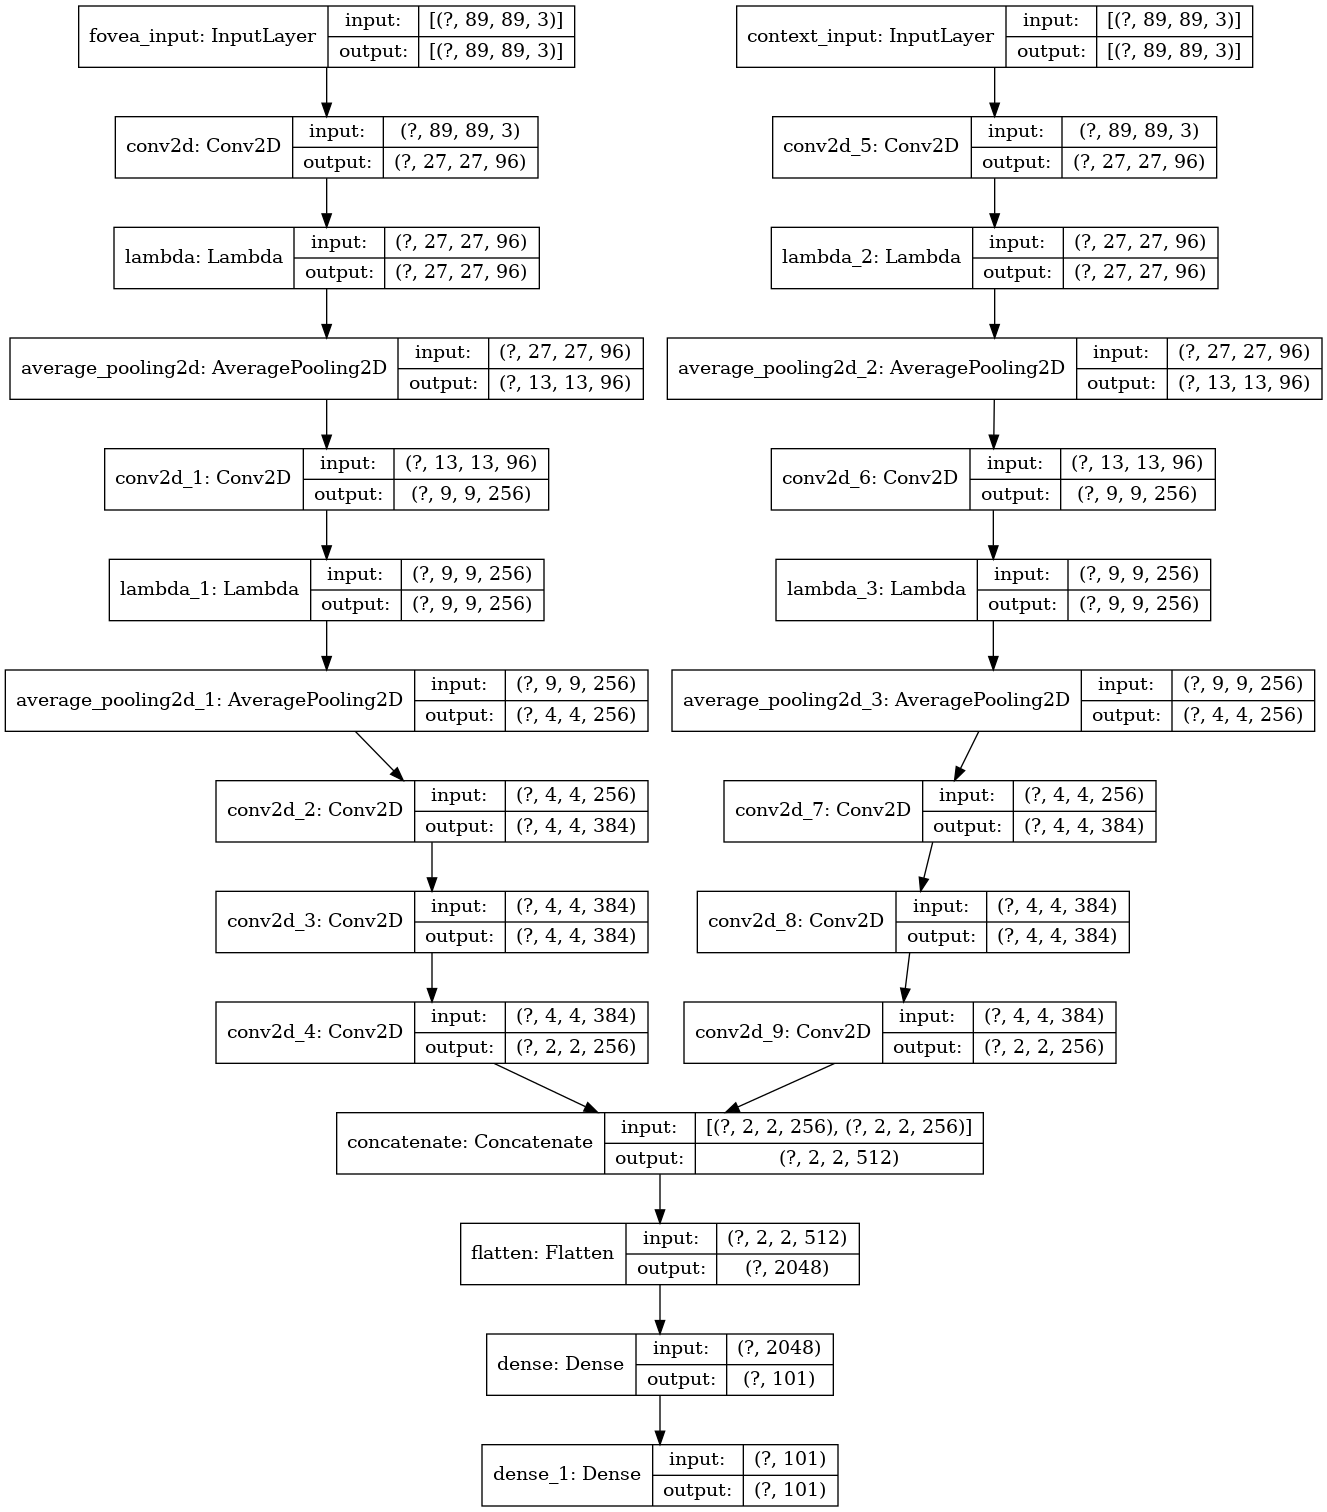
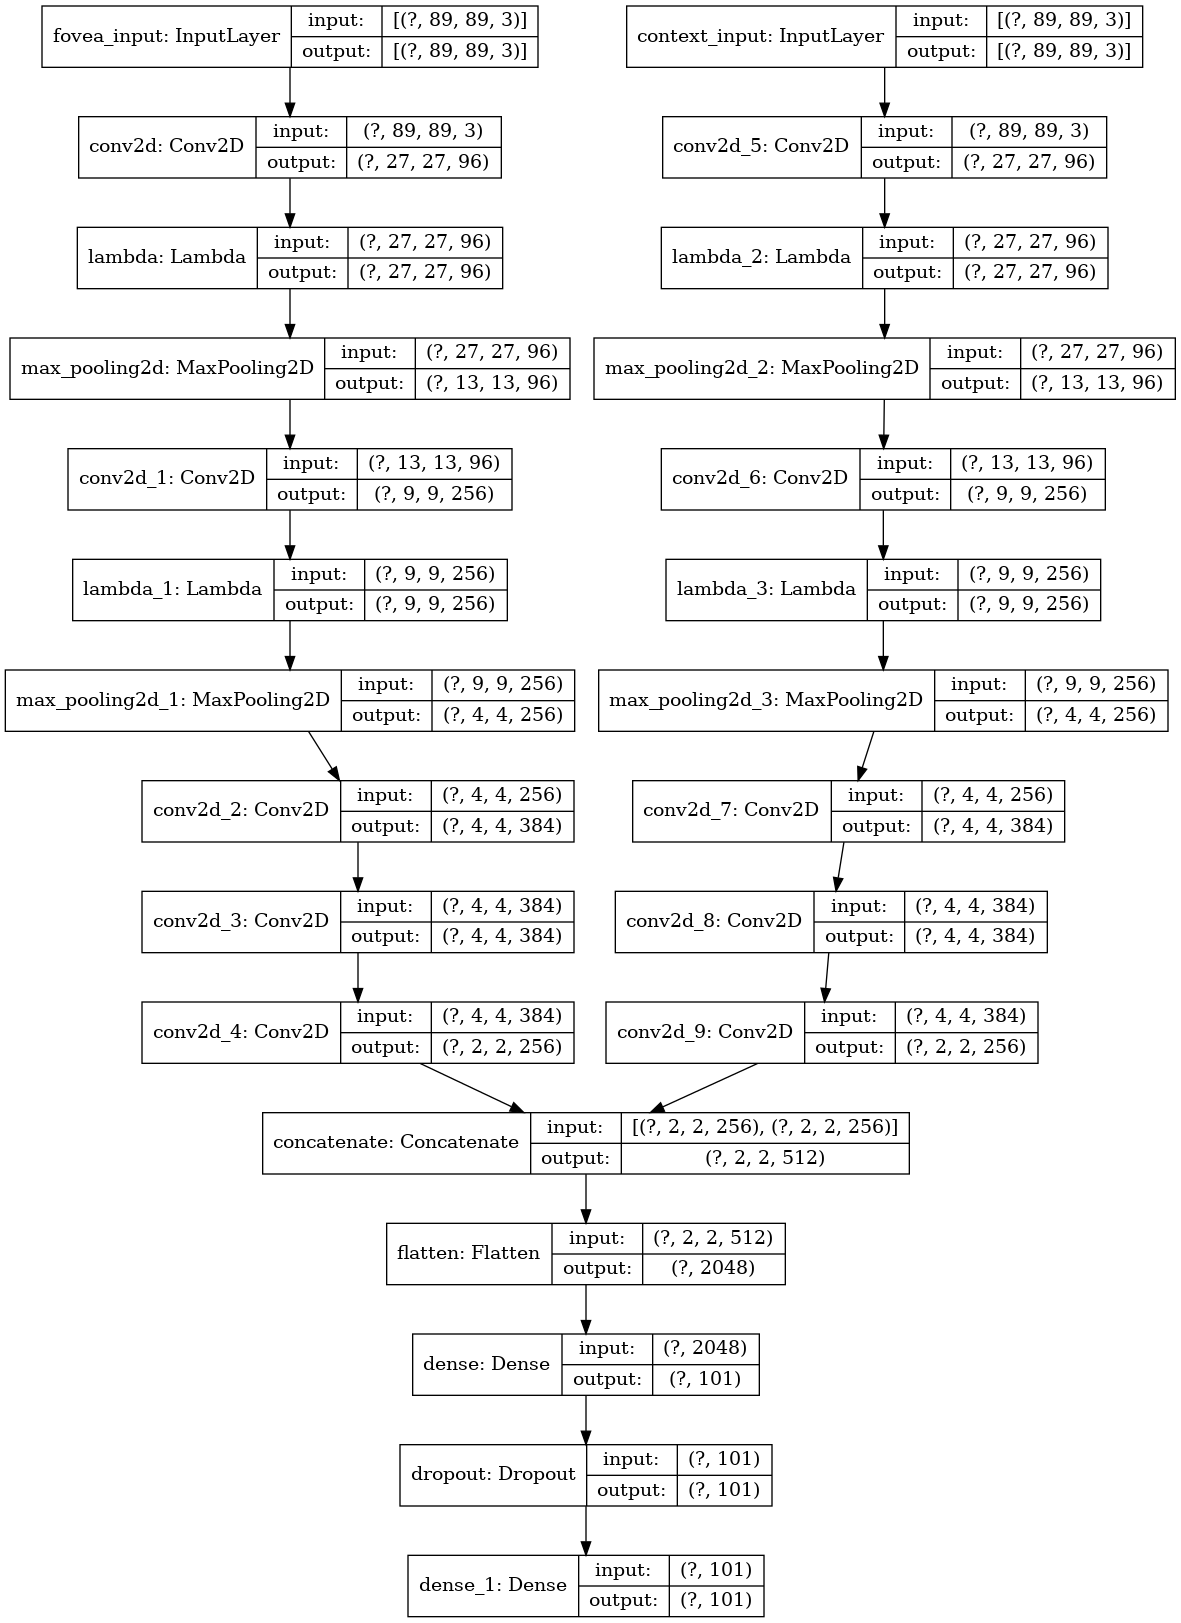
Improved SF MultiRes model, added evaluation script

Changed region(s): [[0.0, 0.0, 1.0, 1.0]]

diff --git a/train_custom_cnn.py b/train_custom_cnn.py
@@ -11,7 +11,7 @@ from keras.applications.inception_v3 import InceptionV3
 from keras.optimizers import SGD
 from keras.preprocessing.image import ImageDataGenerator
 from keras.models import Model
-from keras.layers import Flatten, concatenate, Lambda, Input, Dense, AveragePooling2D, GlobalAveragePooling2D, Conv2D
+from keras.layers import Flatten, concatenate, Lambda, Input, Dropout, Dense, AveragePooling2D, MaxPooling2D, GlobalAveragePooling2D, Conv2D
 from keras.callbacks import ModelCheckpoint, TensorBoard, EarlyStopping, CSVLogger
 from keras.utils import plot_model
 from tensorflow.nn import local_response_normalization
@@ -23,7 +23,8 @@ data = DataSet()
 
 # Helper: Save the model.
 checkpointer = ModelCheckpoint(
-    filepath=os.path.join('data', 'checkpoints', 'inception.{epoch:03d}-{accuracy:.2f}.hdf5'),
+    filepath=os.path.join('data', 'checkpoints', 'SF_MultiRes.{epoch:03d}-{accuracy:.2f}.hdf5'),
+    monitor='accuracy',
     verbose=1,
     save_best_only=True)
 
@@ -35,7 +36,7 @@ tensorboard = TensorBoard(log_dir=os.path.join('data', 'logs'))
 
 # Helper: Save results.
 timestamp = time.time()
-csv_logger = CSVLogger(os.path.join('data', 'logs', 'InceptionV3' + '-' + 'training-' + \
+csv_logger = CSVLogger(os.path.join('data', 'logs', 'SF_MultiRes' + '-' + 'training-' + \
     str(timestamp) + '.log'))
 
 def crop_center(img):
@@ -44,21 +45,25 @@ def crop_center(img):
     y,x,z = img.shape
     startx = x//2-(cropx//2)
     starty = y//2-(cropy//2)    
-    return img[starty:starty+cropy,startx:startx+cropx]
+    return img[starty:starty+cropy,startx:startx+cropx]-117
+
+def subtract_mean(img):
+    return img-117
 
 def get_train_generator():
     train_fovea_datagen = ImageDataGenerator(
-        rescale=1./255,
-        shear_range=0.2,
+        #rescale=1./255,
+        #shear_range=0.2,
         horizontal_flip=True,
-        rotation_range=10.,
+        rotation_range=180.,
         preprocessing_function=crop_center)
 
     train_context_datagen = ImageDataGenerator(
-        rescale=1./255,
-        shear_range=0.2,
+        #rescale=1./255,
+        #shear_range=0.2,
         horizontal_flip=True,
-        rotation_range=10.)
+        rotation_range=180.,
+        preprocessing_function=subtract_mean)
 
     train_fovea_generator = train_fovea_datagen.flow_from_directory(
         os.path.join('data', 'train'),
@@ -84,9 +89,9 @@ def get_train_generator():
     # return train_generator, validation_generator
 
 def get_validation_generator():
-    context_datagen = ImageDataGenerator(rescale=1./255)
+    context_datagen = ImageDataGenerator()#rescale=1./255)
     
-    fovea_datagen = ImageDataGenerator(rescale=1./255,
+    fovea_datagen = ImageDataGenerator(#rescale=1./255,
     preprocessing_function=crop_center)
 
     context_generator = context_datagen.flow_from_directory(
@@ -126,36 +131,37 @@ def get_model(weights='imagenet'):
 
     fovea_input = Input(shape=(89,89,3), name='fovea_input')
     x = Conv2D(96,11,3)(fovea_input)
-    x = Lambda(local_response_normalization)(x)
-    x = AveragePooling2D((2,2),padding='valid')(x)
+    x = Lambda(local_response_normalization,arguments={'alpha':1e-4,'bias':2})(x)
+    x = MaxPooling2D((2,2),padding='valid')(x)
     x = Conv2D(256,5,1)(x)
-    x = Lambda(local_response_normalization)(x)
-    x = AveragePooling2D((2,2),padding='valid')(x)
+    x = Lambda(local_response_normalization,arguments={'alpha':1e-4,'bias':2})(x)
+    x = MaxPooling2D((2,2),padding='valid')(x)
     x = Conv2D(384,1,1)(x)
     x = Conv2D(384,1,1)(x)
-    x = Conv2D(256,3,1)(x)
+    x = Conv2D(256,3,1,activation='relu')(x)
 
     context_input = Input(shape=(89,89,3), name='context_input')
     c = Conv2D(96,11,3)(context_input)
-    c = Lambda(local_response_normalization)(c)
-    c = AveragePooling2D((2,2),padding='valid')(c)
+    c = Lambda(local_response_normalization,arguments={'alpha':1e-4,'bias':2})(c)
+    c = MaxPooling2D((2,2),padding='valid')(c)
     c = Conv2D(256,5,1)(c)
-    c = Lambda(local_response_normalization)(c)
-    c = AveragePooling2D((2,2),padding='valid')(c)
+    c = Lambda(local_response_normalization,arguments={'alpha':1e-4,'bias':2})(c)
+    c = MaxPooling2D((2,2),padding='valid')(c)
     c = Conv2D(384,1,1)(c)
     c = Conv2D(384,1,1)(c)
-    c = Conv2D(256,3,1)(c)
+    c = Conv2D(256,3,1,activation='relu')(c)
 
     cn = concatenate([x,c])
 
-    #cn = AveragePooling2D((2,2),padding='valid')(cn)
+    #cn = AveragePooling2D((2,2),padding='same')(cn)
     cn = Flatten()(cn)
-    fc = Dense(len(data.classes), activation='relu')(cn)
-    predictions = Dense(len(data.classes), activation='relu')(fc)
+    fc = Dense(len(data.classes))(cn)
+    fc = Dropout(0.5)(fc)
+    predictions = Dense(len(data.classes),activation='softmax')(fc)
 
     model = Model(inputs=[fovea_input, context_input], outputs=predictions)    
     #model([fovea_input, context_input])
-    model.compile(optimizer=SGD(lr=0.0001, momentum=0.9) ,loss='categorical_crossentropy', metrics=['accuracy','top_k_categorical_accuracy'], run_eagerly=True)
+    model.compile(optimizer=SGD(lr=0.0001, momentum=0.9) ,loss='categorical_crossentropy', metrics=['accuracy','top_k_categorical_accuracy'], run_eagerly=False)
     
     return model
 
@@ -193,7 +199,7 @@ def train_model(model, nb_epoch, train_generator, callbacks=[], validation_gener
     #train_generator, validation_generator = generators
     model.fit(
         train_generator,
-        steps_per_epoch=10,
+        steps_per_epoch=100,
         validation_data=validation_generator,
         validation_steps=10,
         epochs=nb_epoch,
@@ -207,7 +213,7 @@ def main(weights_file):
     
 
     train_generator = get_train_generator()
-    validation_generator = get_validation_generator()
+    validation_generator = None #get_validation_generator()
     #generators = (train_generator,validation_generator)
 
     # if weights_file is None:
@@ -221,7 +227,7 @@ def main(weights_file):
 
     # # Get and train the mid layers.
     # model = freeze_all_but_mid_and_top(model)
-    model = train_model(model, 20, train_generator,
+    model = train_model(model, 1250, train_generator,
                         [checkpointer, tensorboard, csv_logger],
                         validation_generator=validation_generator)
 

diff --git a/test_custom_cnn.py b/test_custom_cnn.py
@@ -1,0 +1,144 @@
+"""
+Test on images split into directories. This assumes we've split
+our videos into frames and moved them to their respective folders
+and trained our model.
+
+Based on:
+https://keras.io/preprocessing/image/
+and
+https://keras.io/applications/
+"""
+from train_custom_cnn import get_model
+from keras.applications.inception_v3 import InceptionV3
+from keras.optimizers import SGD
+from keras.preprocessing.image import ImageDataGenerator
+from keras.models import Model
+from keras.layers import Flatten, concatenate, Lambda, Input, Dropout, Dense, AveragePooling2D, MaxPooling2D, GlobalAveragePooling2D, Conv2D
+from keras.callbacks import ModelCheckpoint, TensorBoard, EarlyStopping, CSVLogger
+from keras.utils import plot_model
+from tensorflow.nn import local_response_normalization
+from data import DataSet
+import time
+import os.path
+
+data = DataSet()
+
+# Helper: Save the model.
+checkpointer = ModelCheckpoint(
+    filepath=os.path.join('data', 'checkpoints', 'inception.{epoch:03d}-{accuracy:.2f}.hdf5'),
+    verbose=1,
+    save_best_only=True)
+
+# Helper: Stop when we stop learning.
+early_stopper = EarlyStopping(patience=10)
+
+# Helper: TensorBoard
+tensorboard = TensorBoard(log_dir=os.path.join('data', 'logs'))
+
+# Helper: Save results.
+timestamp = time.time()
+csv_logger = CSVLogger(os.path.join('data', 'logs', 'InceptionV3' + '-' + 'training-' + \
+    str(timestamp) + '.log'))
+
+def crop_center(img):
+    cropx = 89
+    cropy = 89
+    y,x,z = img.shape
+    startx = x//2-(cropx//2)
+    starty = y//2-(cropy//2)    
+    return img[starty:starty+cropy,startx:startx+cropx]-117
+
+def subtract_mean(img):
+    return img-117
+
+def get_test_generator():
+    context_datagen = ImageDataGenerator()
+    
+    fovea_datagen = ImageDataGenerator(
+    preprocessing_function=crop_center)
+
+    context_generator = context_datagen.flow_from_directory(
+        os.path.join('data', 'test'),
+        target_size=(89, 89),
+        batch_size=32,
+        classes=data.classes,
+        class_mode='categorical',
+        interpolation='bilinear')
+
+    fovea_generator = fovea_datagen.flow_from_directory(
+        os.path.join('data', 'test'),
+        target_size=(89, 89),
+        batch_size=32,
+        classes=data.classes,
+        class_mode='categorical')
+
+    while True:
+        f = fovea_generator.next()
+        c = context_generator.next()
+        yield [f[0],c[0]], f[1]
+
+# def get_model(weights='imagenet'):
+#     fovea_input = Input(shape=(89,89,3), name='fovea_input')
+#     x = Conv2D(96,11,3)(fovea_input)
+#     x = Lambda(local_response_normalization,arguments={'alpha':1e-4,'bias':2})(x)
+#     x = MaxPooling2D((2,2),padding='valid')(x)
+#     x = Conv2D(256,5,1)(x)
+#     x = Lambda(local_response_normalization,arguments={'alpha':1e-4,'bias':2})(x)
+#     x = MaxPooling2D((2,2),padding='valid')(x)
+#     x = Conv2D(384,1,1)(x)
+#     x = Conv2D(384,1,1)(x)
+#     x = Conv2D(256,3,1,activation='relu')(x)
+
+#     context_input = Input(shape=(89,89,3), name='context_input')
+#     c = Conv2D(96,11,3)(context_input)
+#     c = Lambda(local_response_normalization,arguments={'alpha':1e-4,'bias':2})(c)
+#     c = MaxPooling2D((2,2),padding='valid')(c)
+#     c = Conv2D(256,5,1)(c)
+#     c = Lambda(local_response_normalization,arguments={'alpha':1e-4,'bias':2})(c)
+#     c = MaxPooling2D((2,2),padding='valid')(c)
+#     c = Conv2D(384,1,1)(c)
+#     c = Conv2D(384,1,1)(c)
+#     c = Conv2D(256,3,1,activation='relu')(c)
+
+#     cn = concatenate([x,c])
+
+#     cn = Flatten()(cn)
+#     fc = Dense(len(data.classes))(cn)
+#     fc = Dropout(0.5)(fc)
+#     predictions = Dense(len(data.classes),activation='softmax')(fc)
+
+#     model = Model(inputs=[fovea_input, context_input], outputs=predictions)    
+#     model.compile(optimizer=SGD(lr=0.0001, momentum=0.9) ,loss='categorical_crossentropy', metrics=['accuracy','top_k_categorical_accuracy'], run_eagerly=False)
+    
+#     return model
+
+def test_model(model, test_generator, nb_steps, callbacks=[]):
+    #train_generator, validation_generator = generators
+    model.evaluate(
+        test_generator,
+        verbose=1,
+        steps=nb_steps,
+        callbacks=callbacks)
+    return model
+
+def main(weights_file):
+    model = get_model()
+    print(model.summary())
+
+    test_generator = get_test_generator()
+    
+    # if weights_file is None:
+    #     print("Loading network from ImageNet weights.")
+    #     # Get and train the top layers.
+    #     model = freeze_all_but_top(model)
+    #     model = train_model(model, 10, generators)
+    # else:
+    print("Loading saved model: %s." % weights_file)
+    model.load_weights(weights_file)
+
+    callbacks = [checkpointer, tensorboard, csv_logger]
+    model = test_model(model, test_generator, 100)
+
+if __name__ == '__main__':
+    weights_file = 'data/checkpoints/SF_MultiRes.1243-0.65.hdf5'
+    main(weights_file)

diff --git a/plot_trainlog.py b/plot_trainlog.py
@@ -9,18 +9,24 @@ def main(training_log):
         reader = csv.reader(fin)
         next(reader, None)  # skip the header
         accuracies = []
+        #losses = []
         top_5_accuracies = []
         cnn_benchmark = []  # this is ridiculous
-        for epoch,acc,loss,top_k_categorical_accuracy,val_acc,val_loss,val_top_k_categorical_accuracy in reader:
-            accuracies.append(float(val_acc))
-            top_5_accuracies.append(float(val_top_k_categorical_accuracy))
+        for epoch,acc,loss,top_k_categorical_accuracy in reader: #val_acc,val_loss ,val_top_k_categorical_accuracy in reader:
+            accuracies.append(float(acc))
+            #losses.append(float(loss))
+            top_5_accuracies.append(float(top_k_categorical_accuracy))
             cnn_benchmark.append(0.65)  # ridiculous
 
-        plt.plot(accuracies)
-        plt.plot(top_5_accuracies)
-        plt.plot(cnn_benchmark)
+        plt.plot(accuracies, label='accuracy')
+        #plt.plot(losses)
+        plt.plot(top_5_accuracies, label='Top 5 accuracy')
+        plt.plot(cnn_benchmark, label='0.65 benchmark')
+        plt.xlabel('Epochs')
+        plt.title('Custom Net Training')
+        plt.legend()
         plt.savefig('trainlog_plot.png')
 
 if __name__ == '__main__':
-    training_log = 'data/logs/InceptionV3-training-1606265533.4140508.log'
+    training_log = 'data/logs/SF_MultiRes-training-1606633512.1547835.log'
     main(training_log)
